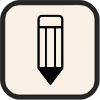
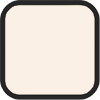
chore: remove notes app

Changed region(s): [[0.36, 0.12, 0.66, 0.87]]

diff --git a/apps/test.app.html b/apps/test.app.html
@@ -1,0 +1,28 @@
+<!DOCTYPE html>
+<html lang="en">
+    <head>
+        <title>test</title>
+        <link href="../extensions/bootstrap.css" rel="stylesheet" >
+        <meta charset="UTF-8">
+        <style>
+            a {
+                color: black;
+                text-decoration: none; /* no underline */
+            }
+            a:hover {color: black}
+            .text-container {
+                background-color: rgb(250, 240, 230); 
+                padding: 2px;
+                border: 2px solid black;
+                margin: 10px;
+            }
+        </style>
+    </head>
+    <body class="content bg-light">
+        <div class="">
+            <div class="text-container">
+                <textarea class="border border-black">At w3schools.com you will learn how to make a website. They offer free tutorials in all web development technologies.</textarea>
+            </div>
+        </div>
+    </body>
+</html>

diff --git a/apps/music.app.html b/apps/music.app.html
@@ -89,7 +89,8 @@
             -moz-appearance: none;
             appearance: none;
             height: 5px;
-            background: black;
+            background: rgb(250, 240, 230); 
+            border: 2px solid black;
         }
 
         /* Modify the appearance of the slider thumb */
@@ -159,7 +160,7 @@
                 </div>
                 <div class="slider_container">
                     <i class="fa fa-volume-down"></i>
-                    <input type="range" min="0" max="20" value="10" class="volume_slider" onchange="setVolume()">
+                    <input type="range" min="0" max="40" value="20" class="volume_slider" onchange="setVolume()">
                     <i class="fa fa-volume-up"></i>
                 </div>
             </div>

diff --git a/index.html b/index.html
@@ -62,9 +62,9 @@
             </div>
             <div class="row mt-1">
                 <div class="col">
-                    <div class="app app-right text-center" onclick="notesApp()">
+                    <div class="app app-right text-center" onclick="testApp()">
                         <img src="assets/notes.png" alt="Files">
-                        <br><label>Notes</label>
+                        <br><label>Test</label>
                     </div>
                 </div>
             </div>

diff --git a/apps/uni.app.html b/apps/uni.app.html
@@ -1,7 +1,7 @@
 <!DOCTYPE html>
 <html lang="en">
     <head>
-        <title>files</title>
+        <title>h-da</title>
         <link href="../extensions/bootstrap.css" rel="stylesheet" >
         <meta charset="UTF-8">
         <link rel="stylesheet" href="../theme/styles.css">

diff --git a/code/winbox.apps.js b/code/winbox.apps.js
@@ -68,9 +68,9 @@ function trashApp () {
     });
 }
 
-function notesApp () {
+function testApp () {
     new WinBox({
-        title: "Notes",
+        title: "test",
         icon: "assets/notes.png",
         x: "center",
         y: "center",

diff --git a/apps/videos.app.html b/apps/videos.app.html
@@ -1,7 +1,7 @@
 <!DOCTYPE html>
 <html lang="en">
     <head>
-        <title>files</title>
+        <title>videos</title>
         <link href="../extensions/bootstrap.css" rel="stylesheet" >
         <meta charset="UTF-8">
         <style>

diff --git a/apps/trash.app.html b/apps/trash.app.html
@@ -1,7 +1,7 @@
 <!DOCTYPE html>
 <html lang="en">
     <head>
-        <title>files</title>
+        <title>trash</title>
         <link href="../extensions/bootstrap.css" rel="stylesheet" >
         <meta charset="UTF-8">
         <style>
